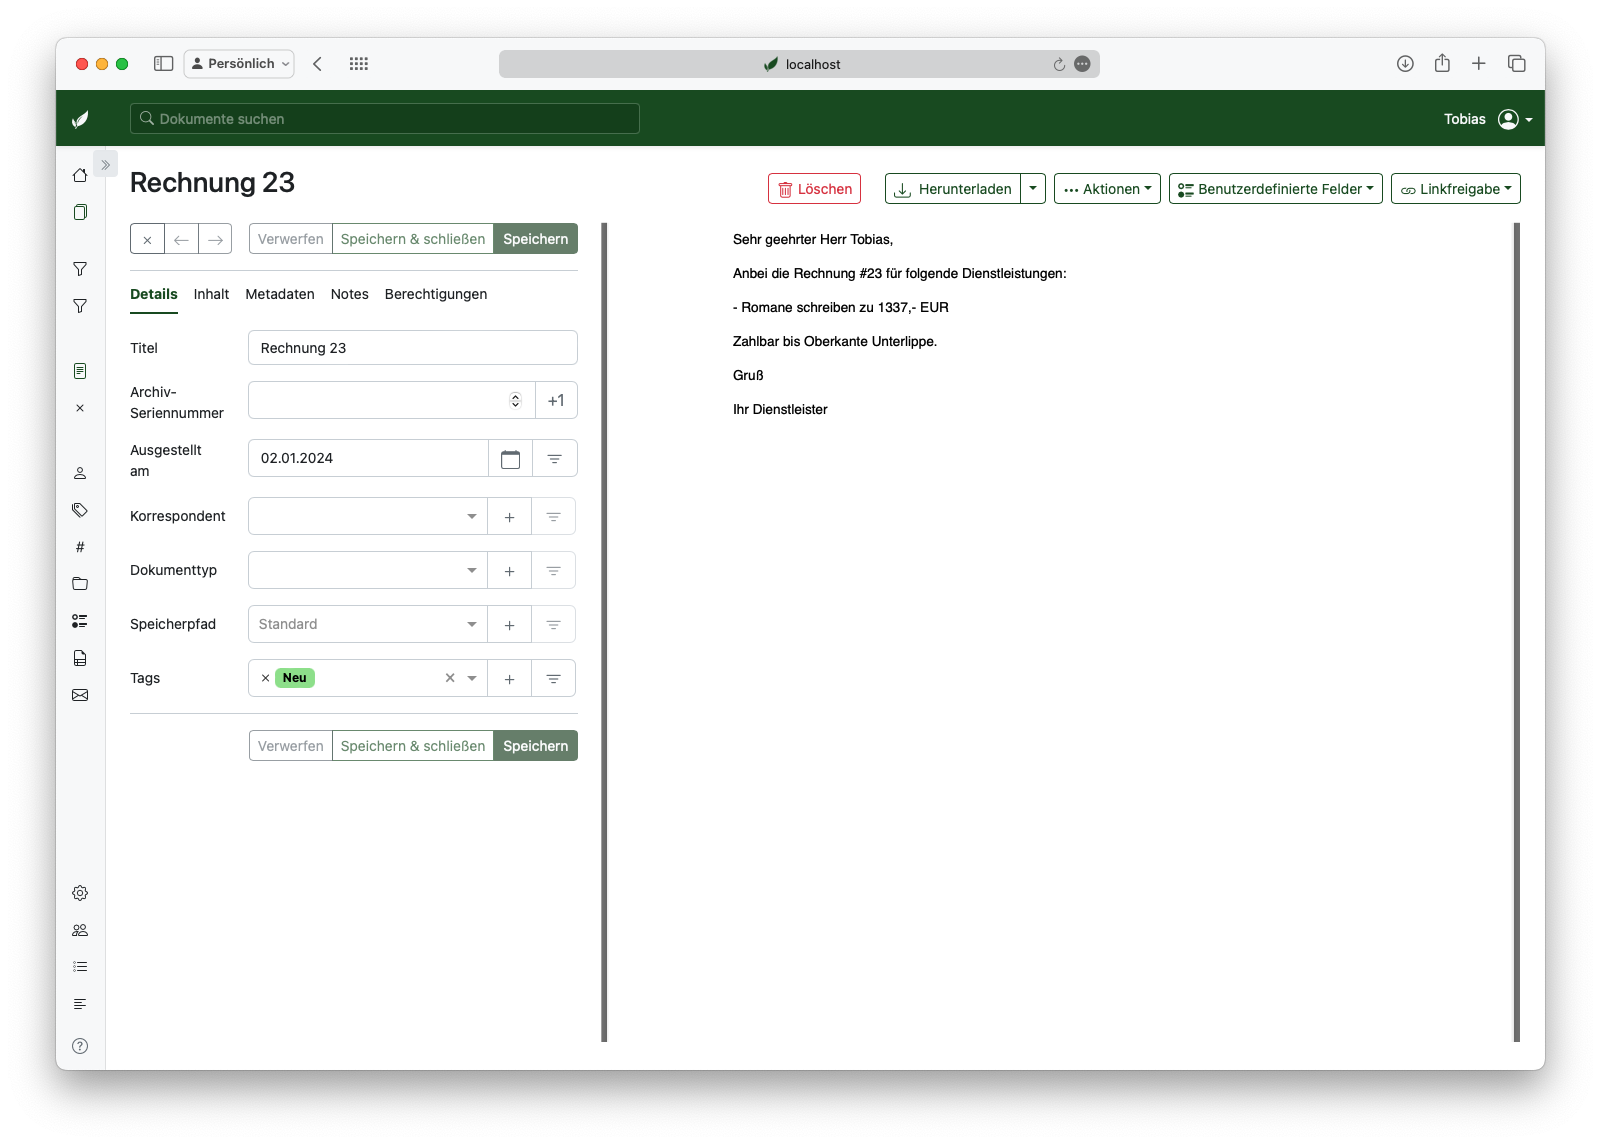
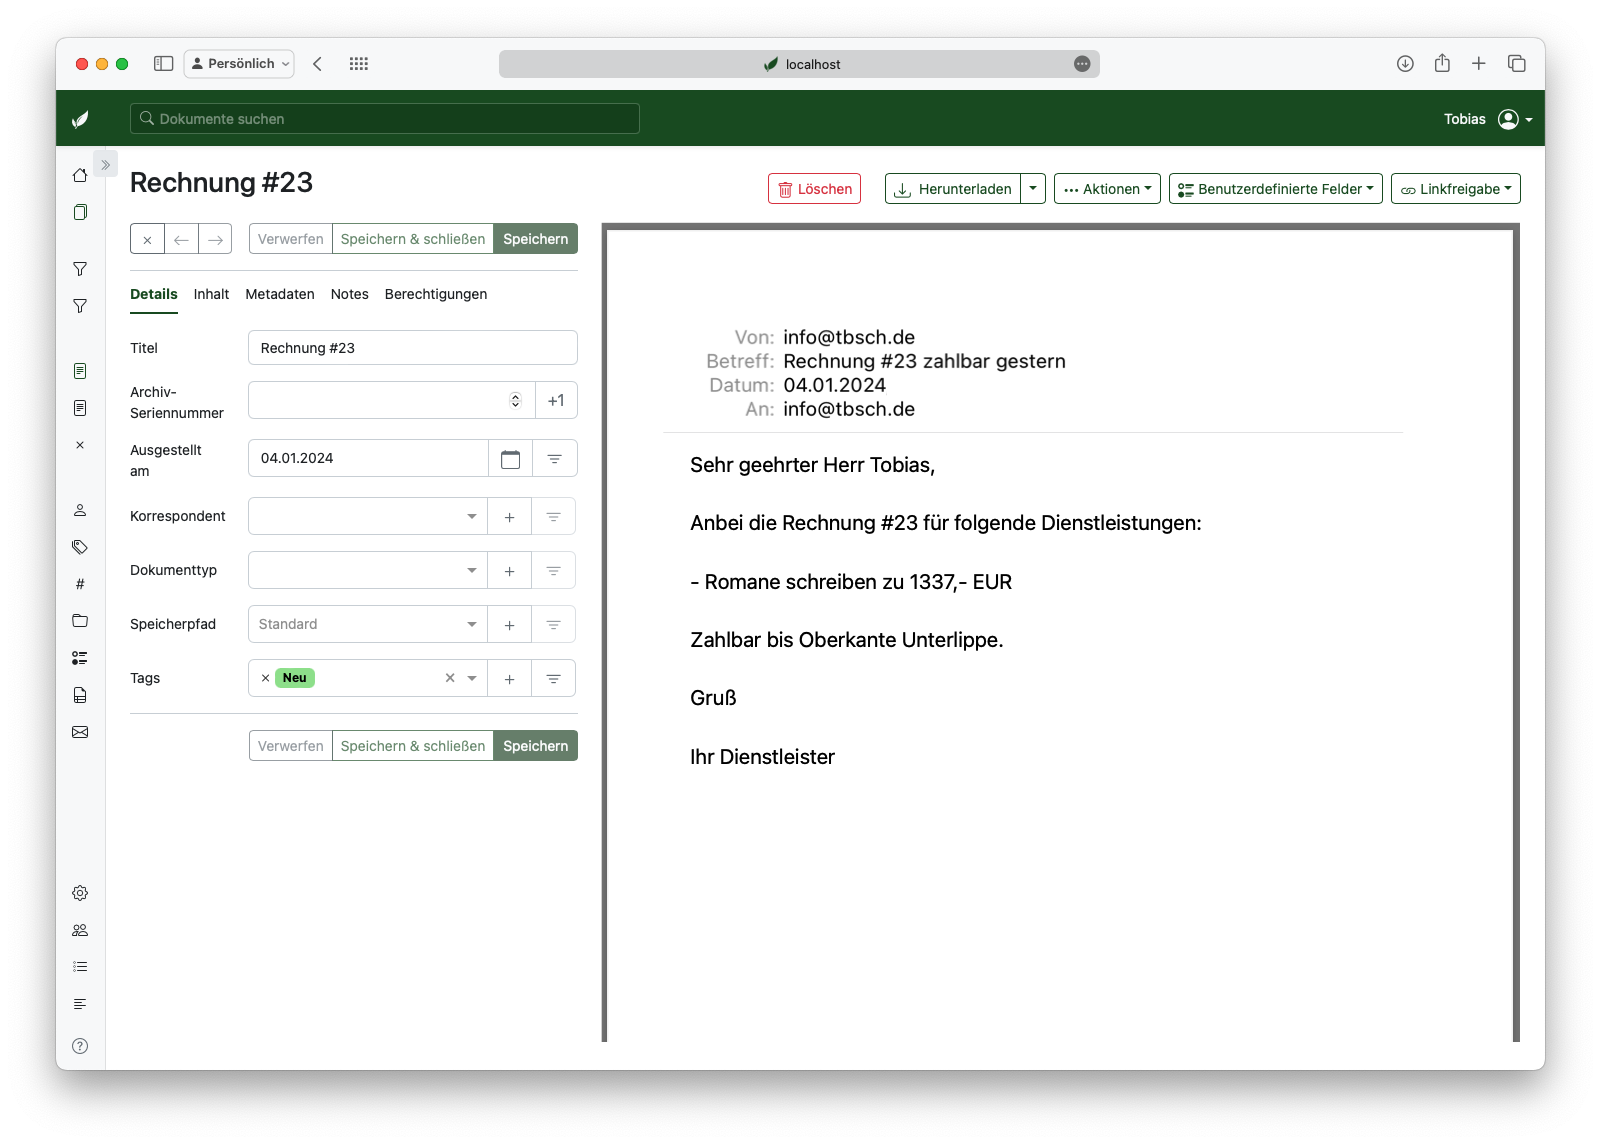
Add more content

diff --git a/_paperless/04-workflow.md b/_paperless/04-workflow.md
@@ -128,6 +128,11 @@ Die meisten Anwender werden vermutlich auf den Einsatz der REST API verzichten, 
 
 ### Klassifizieren
 
-Nachdem dein Dokument konsumiert wurde, findest du es im Posteingang wieder. Hierbei handelt es sich nicht um einen klassischen Ordner, sondern eine dieser *virtuellen Schubladen*, von denen ich [hier](/paperless/klassifizierung/#tagging) häufig geschrieben habe. Damit das funktioniert, musst du einen Tag lediglich als *Posteingangs-Tag* konfigurieren. Nun kannst du das Dokument klassifizieren bzw. dir die Ergebnisse der automatischen Klassifizierung ansehen.
+Nachdem dein Dokument konsumiert wurde, findest du es im Posteingang wieder. Hierbei handelt es sich nicht um einen klassischen Ordner, sondern eine dieser *virtuellen Schubladen*, von denen ich [hier](/paperless/klassifizierung/#tagging) berichtet hatte. Damit das funktioniert, musst du einen Tag lediglich als *Posteingangs-Tag* konfigurieren. Nun kannst du das Dokument klassifizieren bzw. dir die Ergebnisse der automatischen Klassifizierung ansehen.
 
 ![Bild: Klassifizierung von Dokumenten](/assets/images/paperless/03-classification.png)
+
+Bereits ohne große Konfiguration meiner Entwickler-Installation und mit einem Test-Dokument, welches wirklich kaum verwertbares Material liefert, hat der *Document Consumer* diverse Informationen extrahieren können. Aus dem Email-Header hat er z.B. das korrekte Datum ausgelesen, der <u>Dateiname des konsumierten Dokuments</u> wurde als Titel hinterlegt und der *Posteingangs-Tag* wurde angeheftet.
+
+**Info:** Ich habe <u>Dateiname des konsumierten Dokuments</u> im vorherigen Absatz absichtlich unterstrichen, da wir an dieser Stelle beachten müssen, dass ich diese Email nicht per Emailkonto-Abruf konsumieren lassen habe. Ich habe die Email in der Druckansicht geöffnet, ein PDF erzeugt und in den *Consumption Ordner* geworfen. Deshalb wurde der Dateiname als Titel des Dokuments gewählt, nicht der Email-Betreff.
+{:  .notice--info}
